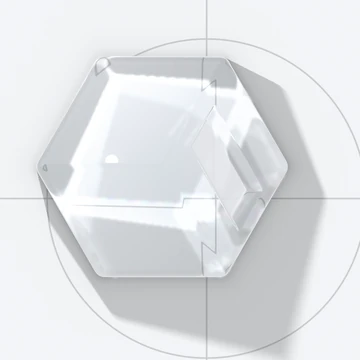
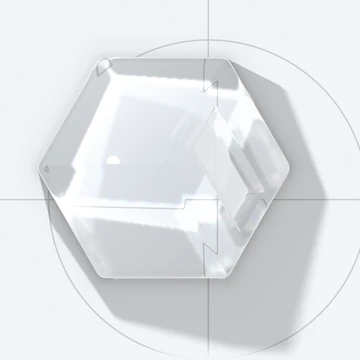
Paper: a larger glass on a 3:2 sheet, its still faded into the page, and a caption that only names the lamp where it moves

diff --git a/site/components/lab/page-paper/Hero.tsx b/site/components/lab/page-paper/Hero.tsx
@@ -18,7 +18,7 @@ export function Hero({ download }: { download: MacDownload }) {
   return (
     <section aria-labelledby="paper-title" className="relative pt-8 sm:pt-10 lg:pt-2">
       <div className={`${s.measure} ${s.grid} relative`}>
-        <div className="order-1 col-span-12 lg:order-none lg:col-span-7 lg:row-start-1 lg:pt-5">
+        <div className="order-1 col-span-12 lg:order-none lg:col-span-6 lg:row-start-1 lg:pt-5">
           <Link
             href="/changelog/v2-1-0"
             className={`${s.note} group inline-flex items-baseline gap-3 text-ink-2 transition-colors duration-150 hover:text-ink`}
@@ -58,8 +58,8 @@ export function Hero({ download }: { download: MacDownload }) {
 
         {/* The glass. The canvas sits in the page under it, so the light scrolls with the paper; it holds
             no words, and the shadow and the caustic are kept inside it by the lamp's reach. */}
-        <figure className="order-3 col-span-12 mt-10 w-full max-w-[36rem] justify-self-center lg:order-none lg:col-span-5 lg:col-start-8 lg:row-start-1 lg:mt-0 lg:mr-[calc(-1*var(--margin))] lg:w-auto lg:max-w-none lg:self-start lg:justify-self-stretch">
-          <div aria-hidden data-paper-glass className="relative aspect-[6/5] w-full">
+        <figure className="order-3 col-span-12 mt-10 w-full max-w-[36rem] justify-self-center lg:order-none lg:col-span-6 lg:col-start-7 lg:row-start-1 lg:mt-0 lg:mr-[calc(-1*var(--margin))] lg:w-auto lg:max-w-none lg:self-start lg:justify-self-stretch">
+          <div aria-hidden data-paper-glass className="relative aspect-[3/2] w-full">
             <GlassStill />
             <GlassLight />
           </div>
@@ -67,7 +67,7 @@ export function Hero({ download }: { download: MacDownload }) {
           <figcaption className={`${s.note} mt-1 lg:pr-[var(--margin)] lg:text-right`}>
             The mark, cut in glass, on a registration mark.
             {/* What moves the lamp, where it moves at all. */}
-            <span className="block motion-reduce:hidden">
+            <span className="block motion-reduce:hidden [html[data-lab-field=off]_&]:hidden">
               <span className="[@media(pointer:coarse)]:hidden">Your pointer is the lamp.</span>
               <span className="hidden [@media(pointer:coarse)]:inline">The lamp moves as you scroll.</span>
             </span>

diff --git a/site/components/lab/page-paper/glass/GlassStill.tsx b/site/components/lab/page-paper/glass/GlassStill.tsx
@@ -2,7 +2,8 @@
  * The glass mark as the live drawing paints it with the lamp at rest, kept as a picture
  * (public/lab/paper/glass-still.webp, a capture of the canvas at twice the density). It lies under the
  * canvas: before the light is ready the page shows exactly what the canvas will paint, so nothing jumps
- * when it fades in, and a browser without WebGPU keeps it as the drawing.
+ * when it fades in, and a browser without WebGPU keeps it as the drawing. A compressed picture can
+ * drift a code value off the page's colour, so its edges fade into the page rather than meet it.
  */
 export function GlassStill() {
   return (
@@ -10,10 +11,10 @@ export function GlassStill() {
       src="/lab/paper/glass-still.webp"
       alt=""
       aria-hidden
-      width={1202}
-      height={1000}
+      width={1416}
+      height={944}
       decoding="async"
-      className="absolute inset-0 h-full w-full select-none"
+      className="absolute inset-0 h-full w-full select-none [mask-composite:intersect] [mask-image:linear-gradient(to_right,transparent,#000_5%,#000_95%,transparent),linear-gradient(to_bottom,transparent,#000_6%,#000_94%,transparent)]"
     />
   )
 }

diff --git a/site/components/lab/page-paper/glass/GlassLight.tsx b/site/components/lab/page-paper/glass/GlassLight.tsx
@@ -21,7 +21,7 @@ const GRID = 150
 /** The caustic map's texels per side. */
 const MAP = 640
 /** The mark's width as a share of the canvas's width. GlassStill draws to the same share. */
-export const MARK_SHARE = 0.46
+export const MARK_SHARE = 0.44
 /** The lamp's height over the paper, and the nearest and farthest it may stand off from the mark,
  *  in mark units: overhead enough that the shadow stays inside the canvas, low enough to have one. */
 const LAMP_HEIGHT = 52
